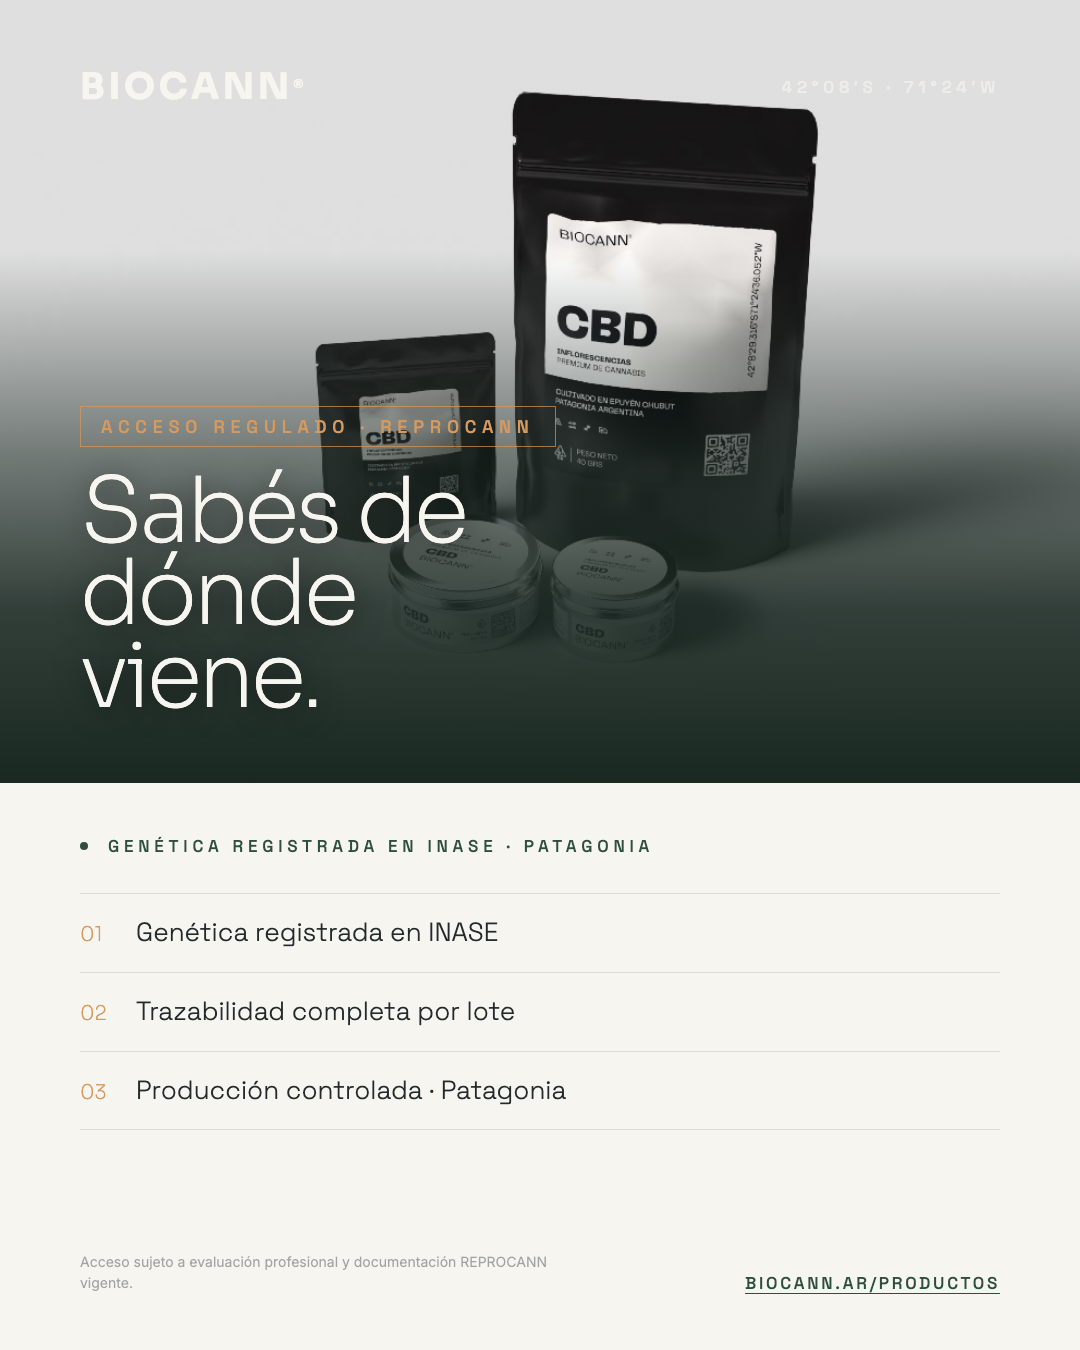
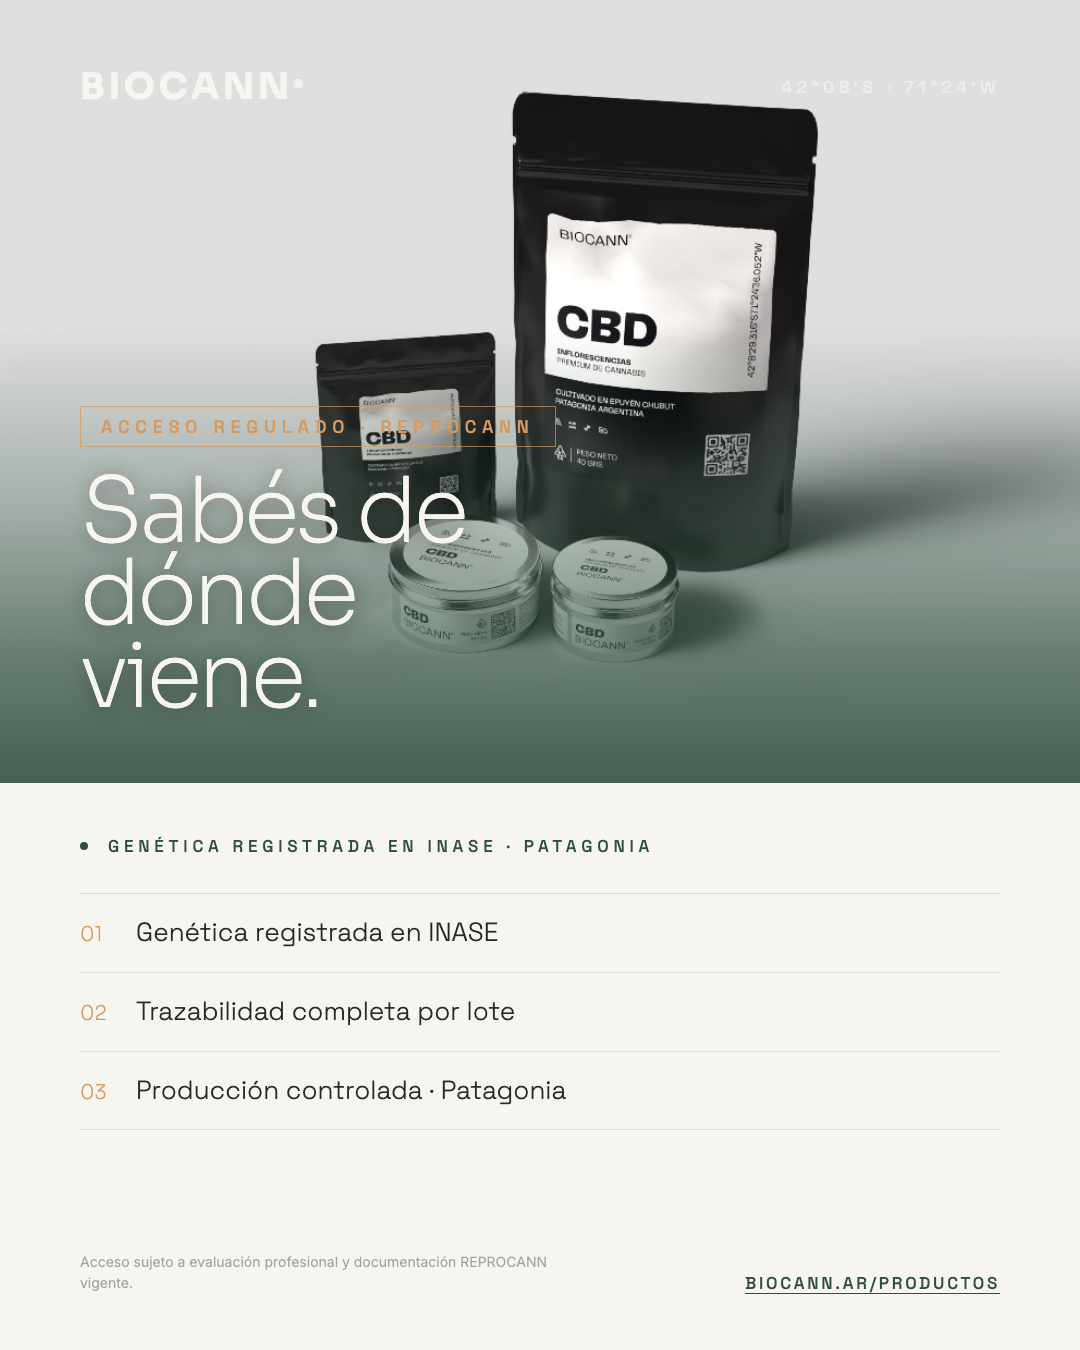
fix(cal-01): gradiente más liviano — tono verde bosque coherente con feed

Changed region(s): [[0.0, 0.2178, 1.0, 0.5911]]

diff --git a/cal-cards/cal-01-reprocann.html b/cal-cards/cal-01-reprocann.html
@@ -6,7 +6,7 @@
 <link href="https://fonts.googleapis.com/css2?family=Sora:wght@200;300;400;700&family=Space+Grotesk:wght@300;400;500;700&family=Inter:wght@300;400&display=swap" rel="stylesheet">
 <style>
   * { box-sizing: border-box; margin: 0; padding: 0; }
-  body { width: 1080px; height: 1350px; overflow: hidden; background: #1a2822; }
+  body { width: 1080px; height: 1350px; overflow: hidden; background: #2F4F3E; }
 
   /* FULL BLEED PHOTO — top 58% */
   .hero {
@@ -21,11 +21,11 @@
     position: absolute; inset: 0;
     background: linear-gradient(
       to bottom,
-      rgba(26,40,34,0.0) 0%,
-      rgba(26,40,34,0.0) 32%,
-      rgba(26,40,34,0.55) 58%,
-      rgba(26,40,34,0.88) 78%,
-      rgba(26,40,34,1.0) 100%
+      rgba(47,79,62,0.0)  0%,
+      rgba(47,79,62,0.0)  42%,
+      rgba(47,79,62,0.32) 64%,
+      rgba(47,79,62,0.68) 84%,
+      rgba(47,79,62,0.88) 100%
     );
   }
 
@@ -87,7 +87,7 @@
     line-height: 0.92;
     letter-spacing: -0.04em;
     color: #F7F5F0;
-    text-shadow: 0 2px 28px rgba(0,0,0,0.55);
+    text-shadow: 0 2px 20px rgba(0,0,0,0.38);
   }
 
   /* BOTTOM BLOCK — white/cream */
